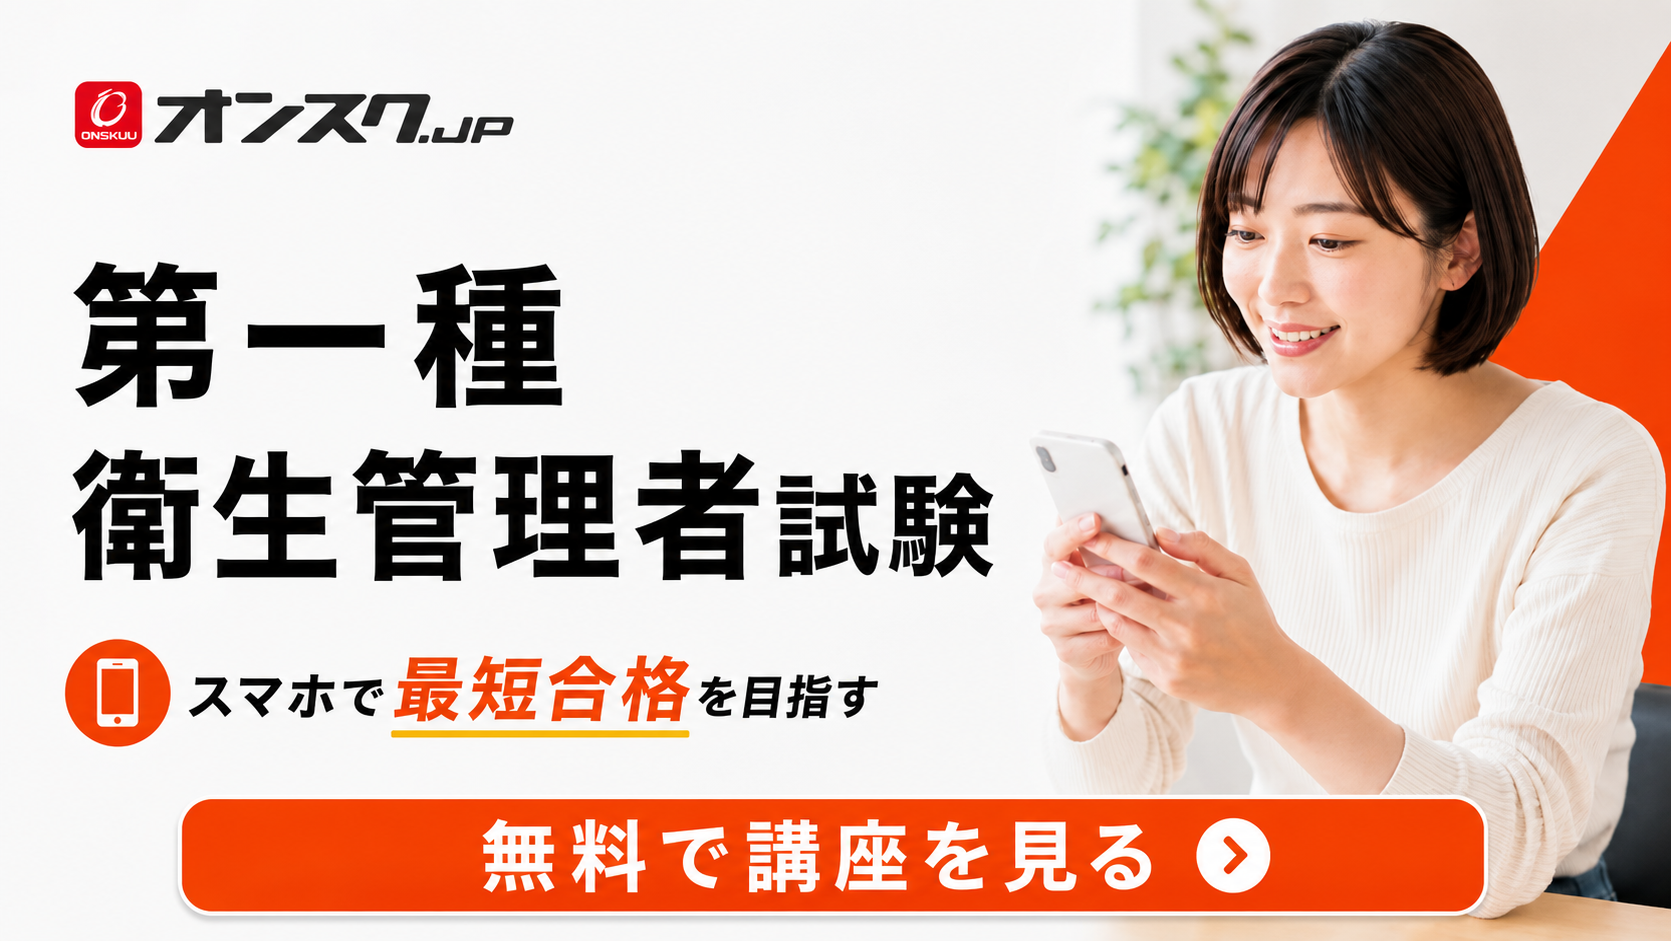
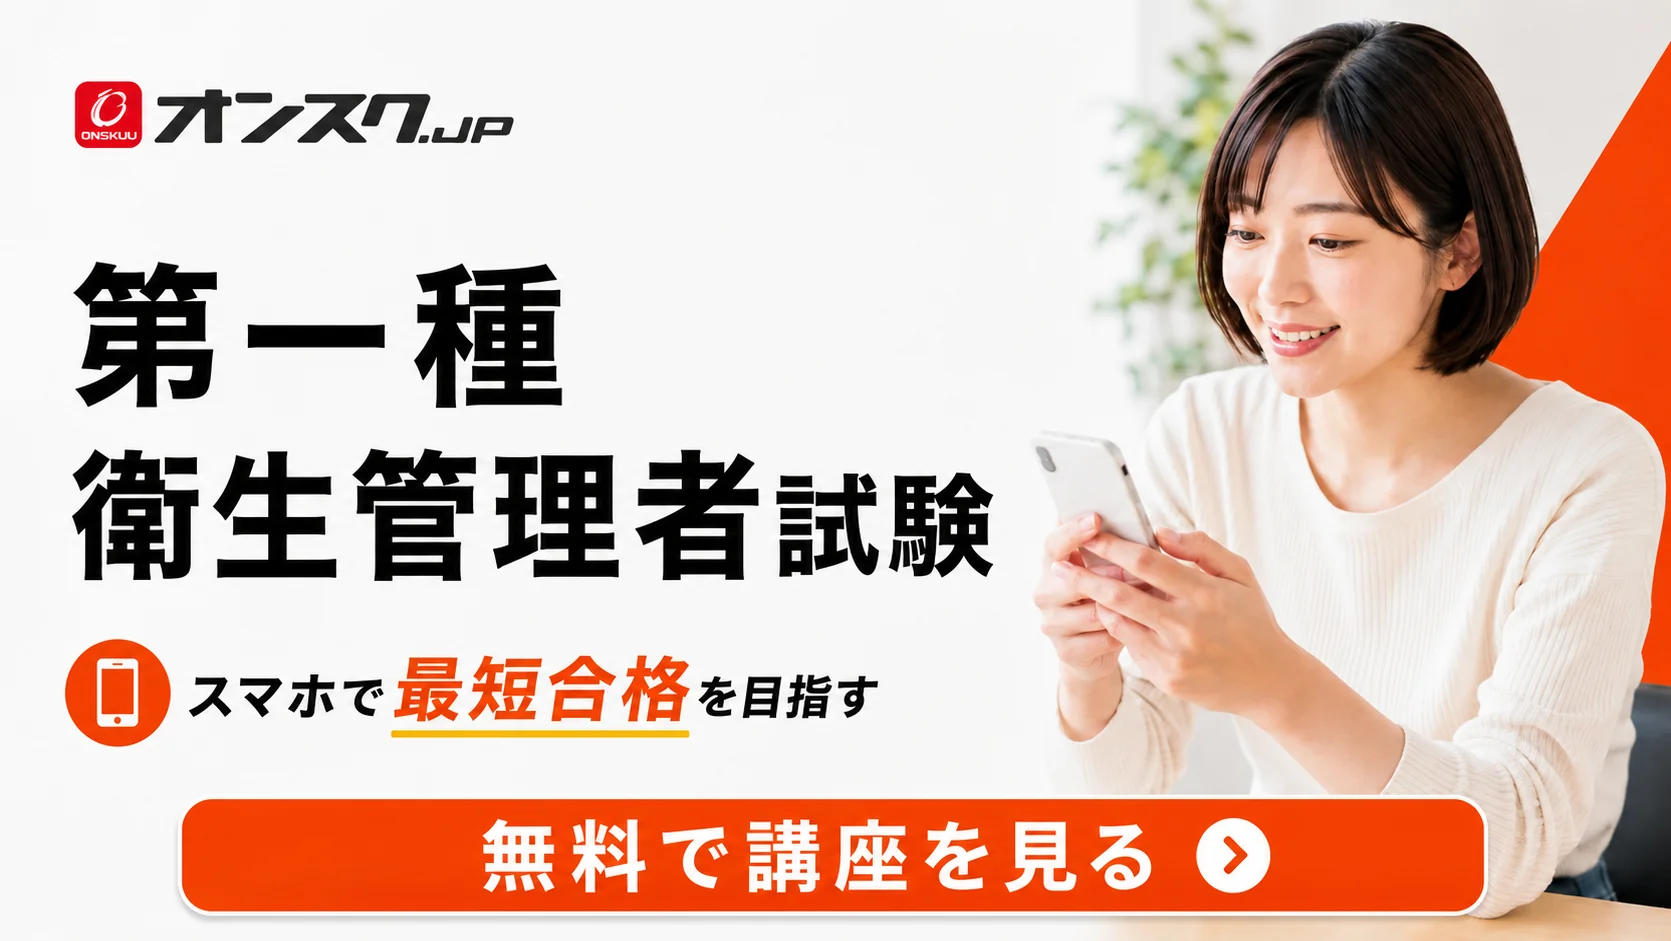
オンスク画像バナーを設定し有料模試と横並び表示
coursePromo に eiseikanrisha1shu-onsuku.webp を追加し、PNG誤拡張子を実 WebP に最適化。アスペクト比を有料模試側と揃える。

diff --git a/index.html b/index.html
@@ -672,14 +672,14 @@ details.rich-detail summary{display:none}
 .course-promo-banner,.paid-mock-banner{margin:0;display:block;max-width:none;width:100%;min-width:0}
 .course-promo-banner__link,.paid-mock-banner__link{display:block;border-radius:var(--r2);overflow:hidden;border:1px solid var(--border);box-shadow:var(--sh);text-decoration:none;transition:box-shadow .15s,transform .15s,border-color .15s}
 .course-promo-banner__link:hover,.paid-mock-banner__link:hover{box-shadow:var(--sh2);border-color:var(--text2);transform:translateY(-1px)}
-.course-promo-banner__link img{display:block;width:100%;height:auto;aspect-ratio:1024/682;object-fit:contain;background:#fff}
+.course-promo-banner__link img{display:block;width:100%;height:auto;aspect-ratio:1024/576;object-fit:contain;background:#fff}
 .paid-mock-banner__link img{display:block;width:100%;height:auto;aspect-ratio:1024/576;object-fit:contain;background:#fff}
 .course-promo-banner__foot,.paid-mock-banner__foot{margin:8px 0 0;font-size:11px;color:var(--text3);line-height:1.55;text-align:center}
 .score-course-banner,.score-paid-mock-banner{display:block;max-width:560px;width:100%;margin:0;border-radius:var(--r2);overflow:hidden;border:1px solid color-mix(in srgb,var(--accent) 26%,#ffffff);box-shadow:0 2px 10px color-mix(in srgb,var(--accent) 12%,transparent);text-decoration:none;transition:border-color .15s,box-shadow .15s,transform .15s}
 .score-course-banner:hover{border-color:var(--accent);box-shadow:0 4px 14px color-mix(in srgb,var(--accent) 16%,transparent);transform:translateY(-1px)}
 .score-paid-mock-banner{border-color:var(--paid-mock-accent-border);box-shadow:0 2px 10px var(--paid-mock-accent-shadow)}
 .score-paid-mock-banner:hover{border-color:var(--paid-mock-accent);box-shadow:0 4px 14px var(--paid-mock-accent-shadow);transform:translateY(-1px)}
-.score-course-banner img{display:block;width:100%;height:auto;aspect-ratio:1024/682;object-fit:contain;background:#fff}
+.score-course-banner img{display:block;width:100%;height:auto;aspect-ratio:1024/576;object-fit:contain;background:#fff}
 .score-paid-mock-banner img{display:block;width:100%;height:auto;aspect-ratio:1024/576;object-fit:contain;background:#fff}
 .score-course-promo-wrap{margin-top:24px;padding-top:20px;border-top:1px solid var(--border)}
 .ichi-score-course-promo-wrap{text-align:left;max-width:480px;margin:24px auto 0}
@@ -7513,7 +7513,7 @@ function buildCoursePromoBannerEl(){
   wrapper.className='course-promo-banner';
   wrapper.innerHTML=`
     <a class="course-promo-banner__link" href="${escapeAttr(href)}"${attrs.target}${attrs.rel} aria-label="${escapeAttr(label)}">
-      <img src="${escapeAttr(c.bannerImage)}" alt="${escapeAttr(c.bannerAlt||c.modeTitle)}" width="1024" height="682" loading="lazy" decoding="async">
+      <img src="${escapeAttr(c.bannerImage)}" alt="${escapeAttr(c.bannerAlt||c.modeTitle)}" width="1024" height="576" loading="lazy" decoding="async">
     </a>
     ${c.footnote?`<p class="course-promo-banner__foot">${escapeAttr(c.footnote)}</p>`:''}`;
   if(c.afbLeadUrl){
@@ -7647,7 +7647,7 @@ function renderScoreCoursePromo(opts){
     wrap.innerHTML=`
       <p class="score-course-promo-lead">${leadHtml}</p>
       <a class="score-course-banner" href="${escapeAttr(href)}"${attrs.target}${attrs.rel} aria-label="${escapeAttr(label)}">
-        <img src="${escapeAttr(c.bannerImage)}" alt="${escapeAttr(c.bannerAlt||c.modeTitle)}" width="1024" height="682" loading="lazy" decoding="async">
+        <img src="${escapeAttr(c.bannerImage)}" alt="${escapeAttr(c.bannerAlt||c.modeTitle)}" width="1024" height="576" loading="lazy" decoding="async">
       </a>
       ${footnoteHtml}`;
   }else{

diff --git a/site-config.js b/site-config.js
@@ -175,6 +175,8 @@ window.SITE_CONFIG = {
     "tagLabel": "PR",
     "footnote": "※ オンスク.JP公式サイトへ移動します。料金·受講条件は申込前にご確認ください。",
     "scoreLead": "オンスク.JPオンライン通信講座",
-    "scoreMeta": "月額ウケホーダイ"
+    "scoreMeta": "月額ウケホーダイ",
+    "bannerImage": "images/affiliate/eiseikanrisha1shu-onsuku.webp",
+    "bannerAlt": "オンスク.JP｜第一種衛生管理者試験｜スマホで最短合格を目指す｜無料で講座を見る"
   }
 };
